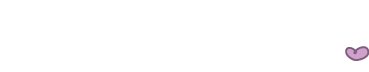
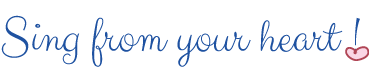
Added new static files for new theme

Changed region(s): [[0.0, 0.2222, 1.0, 0.9444], [0.0596, 0.25, 0.1192, 0.4167], [0.0298, 0.2222, 0.0596, 0.25]]

diff --git a/static/css/base.css b/static/css/base.css
@@ -23,7 +23,8 @@
 
 	SECOND THEME 
 	light purple: #FAD5E5;
-	dark purple outline around heart 7F5B7E
+	dark purple outline around heart 
+
 	purple : CEA2CB;
 	light blue : #CFD9EF;
 	dark-blue: #23519F;
@@ -265,10 +266,10 @@ p{
   	position: absolute;
   	top: 0;
   	left: -500px;
-  	font-family: 'Fredoka One', cursive;
+  	/*font-family: 'Fredoka One', cursive;*/
+  	font-family: 'Raleway';
   	background-color: #CFD9EF; 
-  	border: solid 7px #CEA2CB;
-  	border-radius: 10px;
+  	border: solid 10px #CEA2CB;
   	-webkit-box-shadow: -2px 9px 47px -2px rgba(105,105,105,1);
 	-moz-box-shadow: -2px 9px 47px -2px rgba(105,105,105,1);
 	box-shadow: -2px 9px 47px -2px rgba(105,105,105,1);
